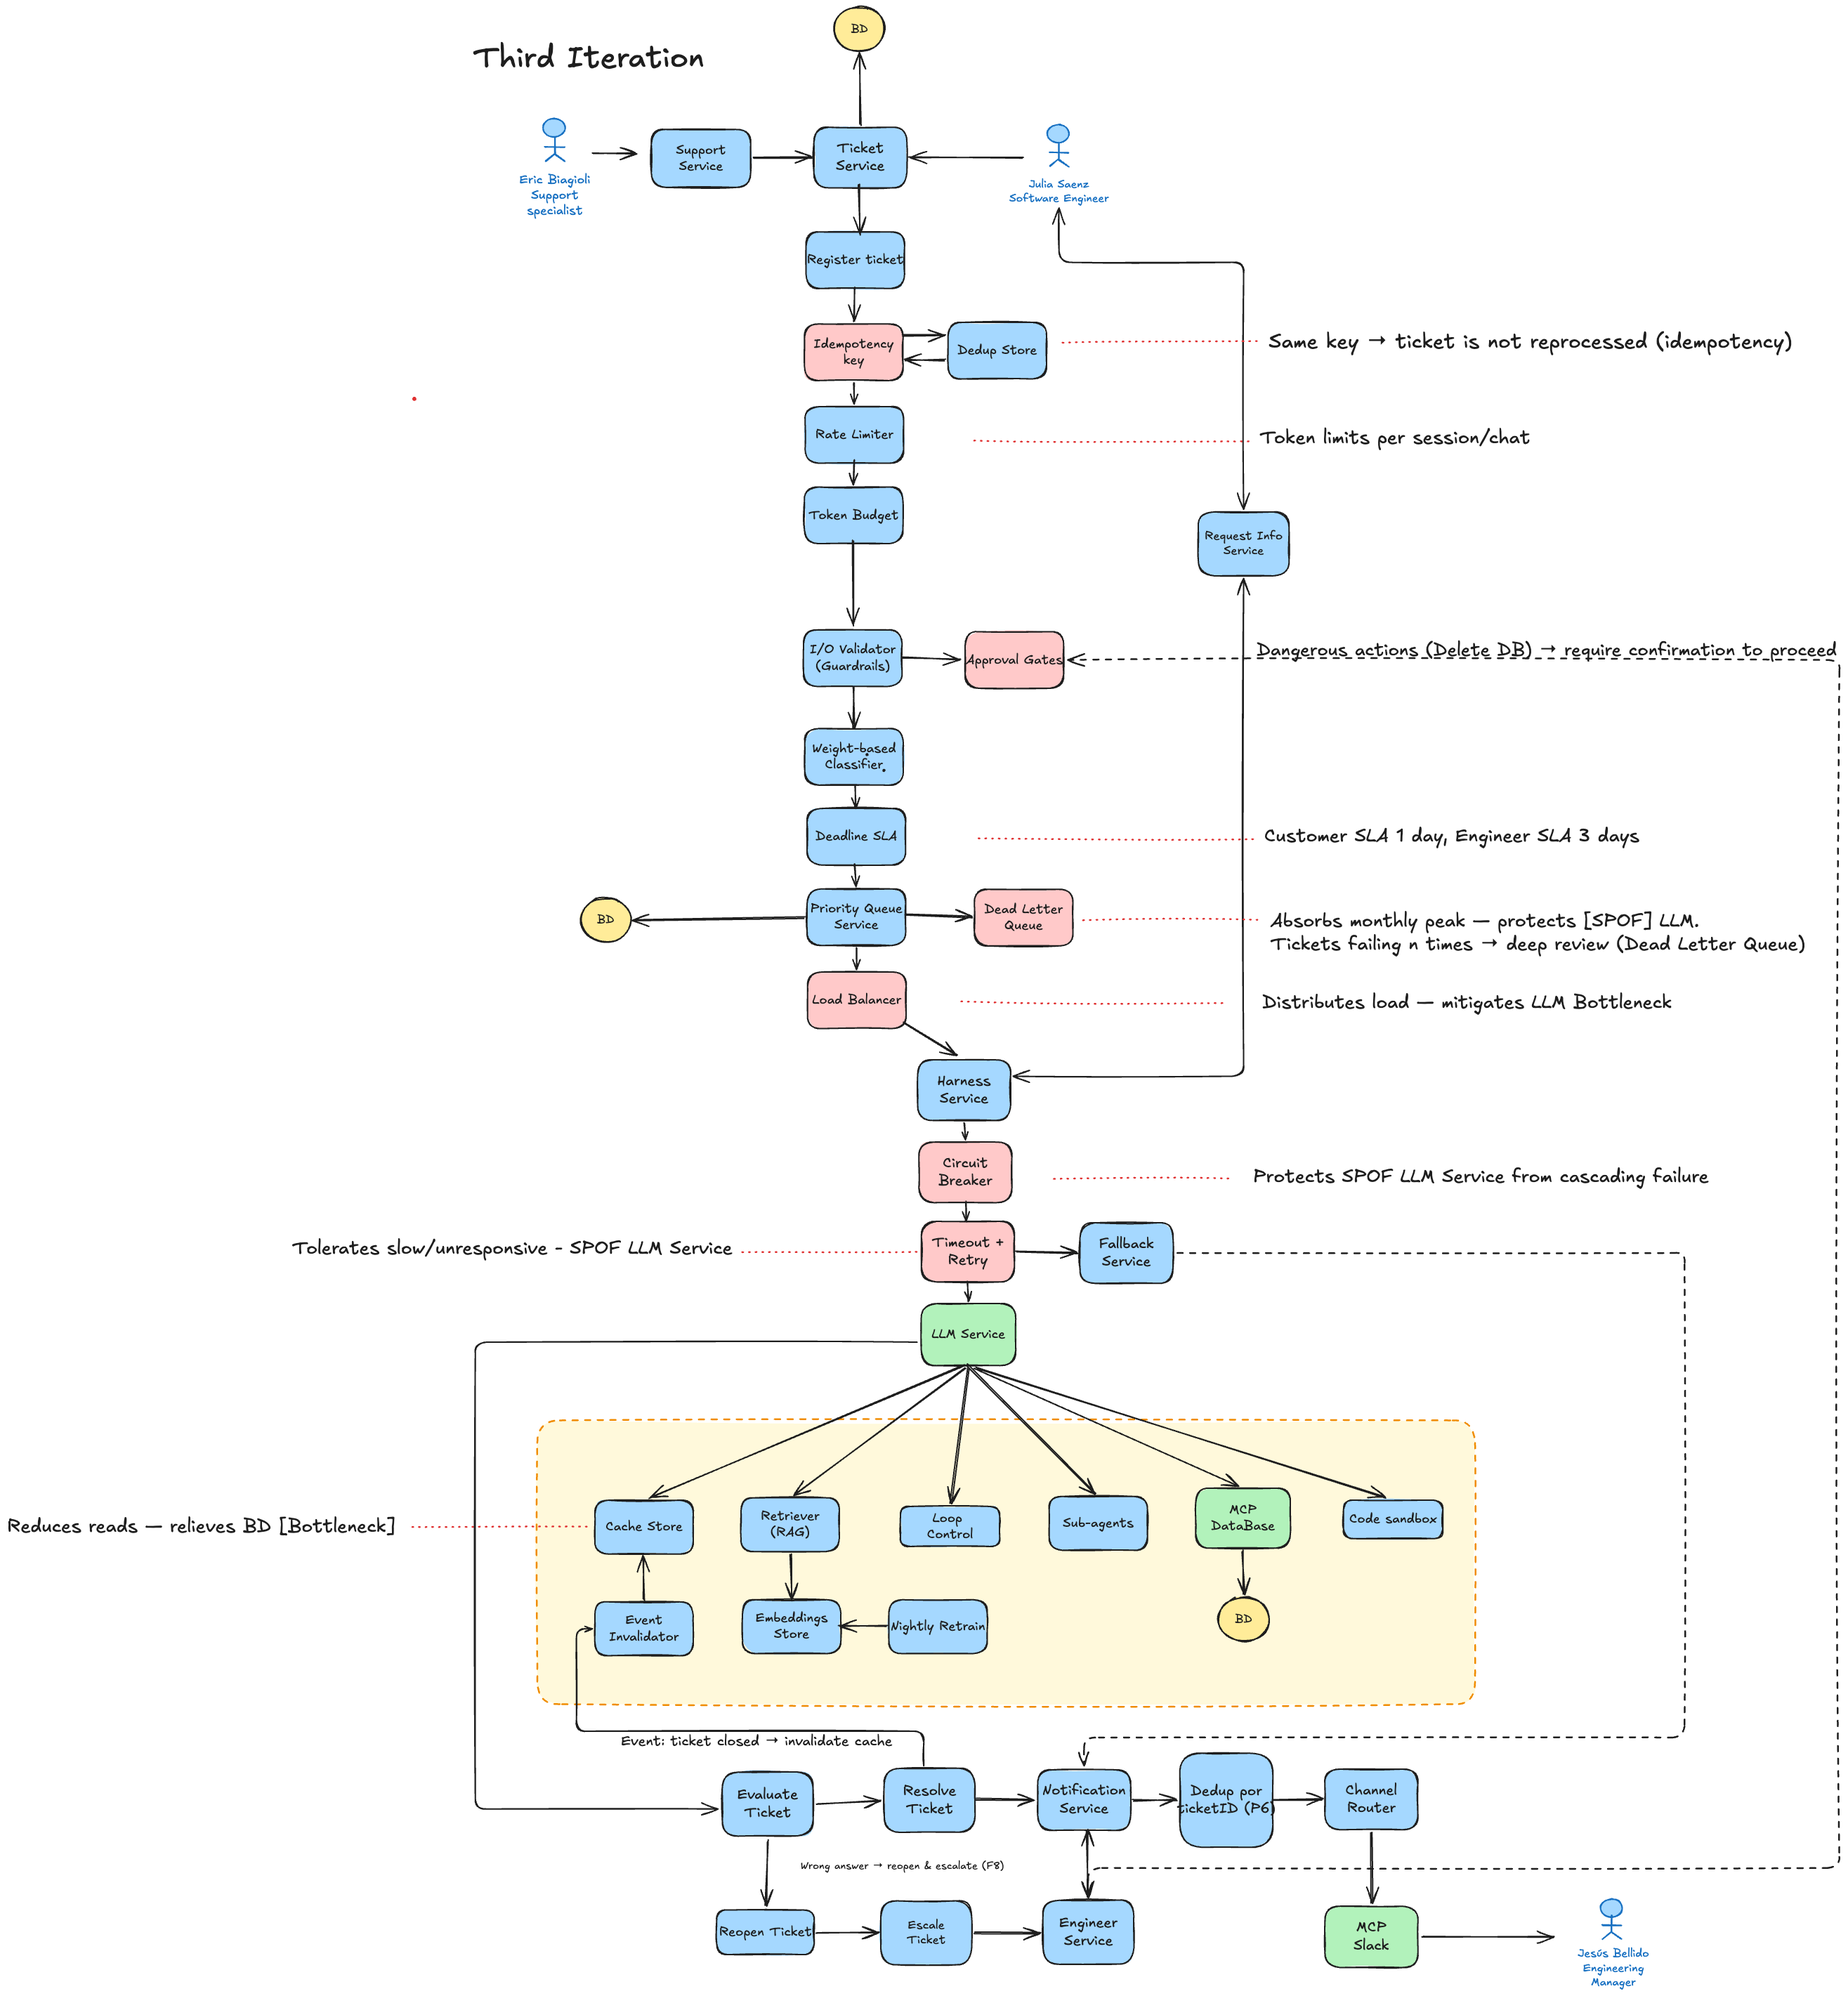
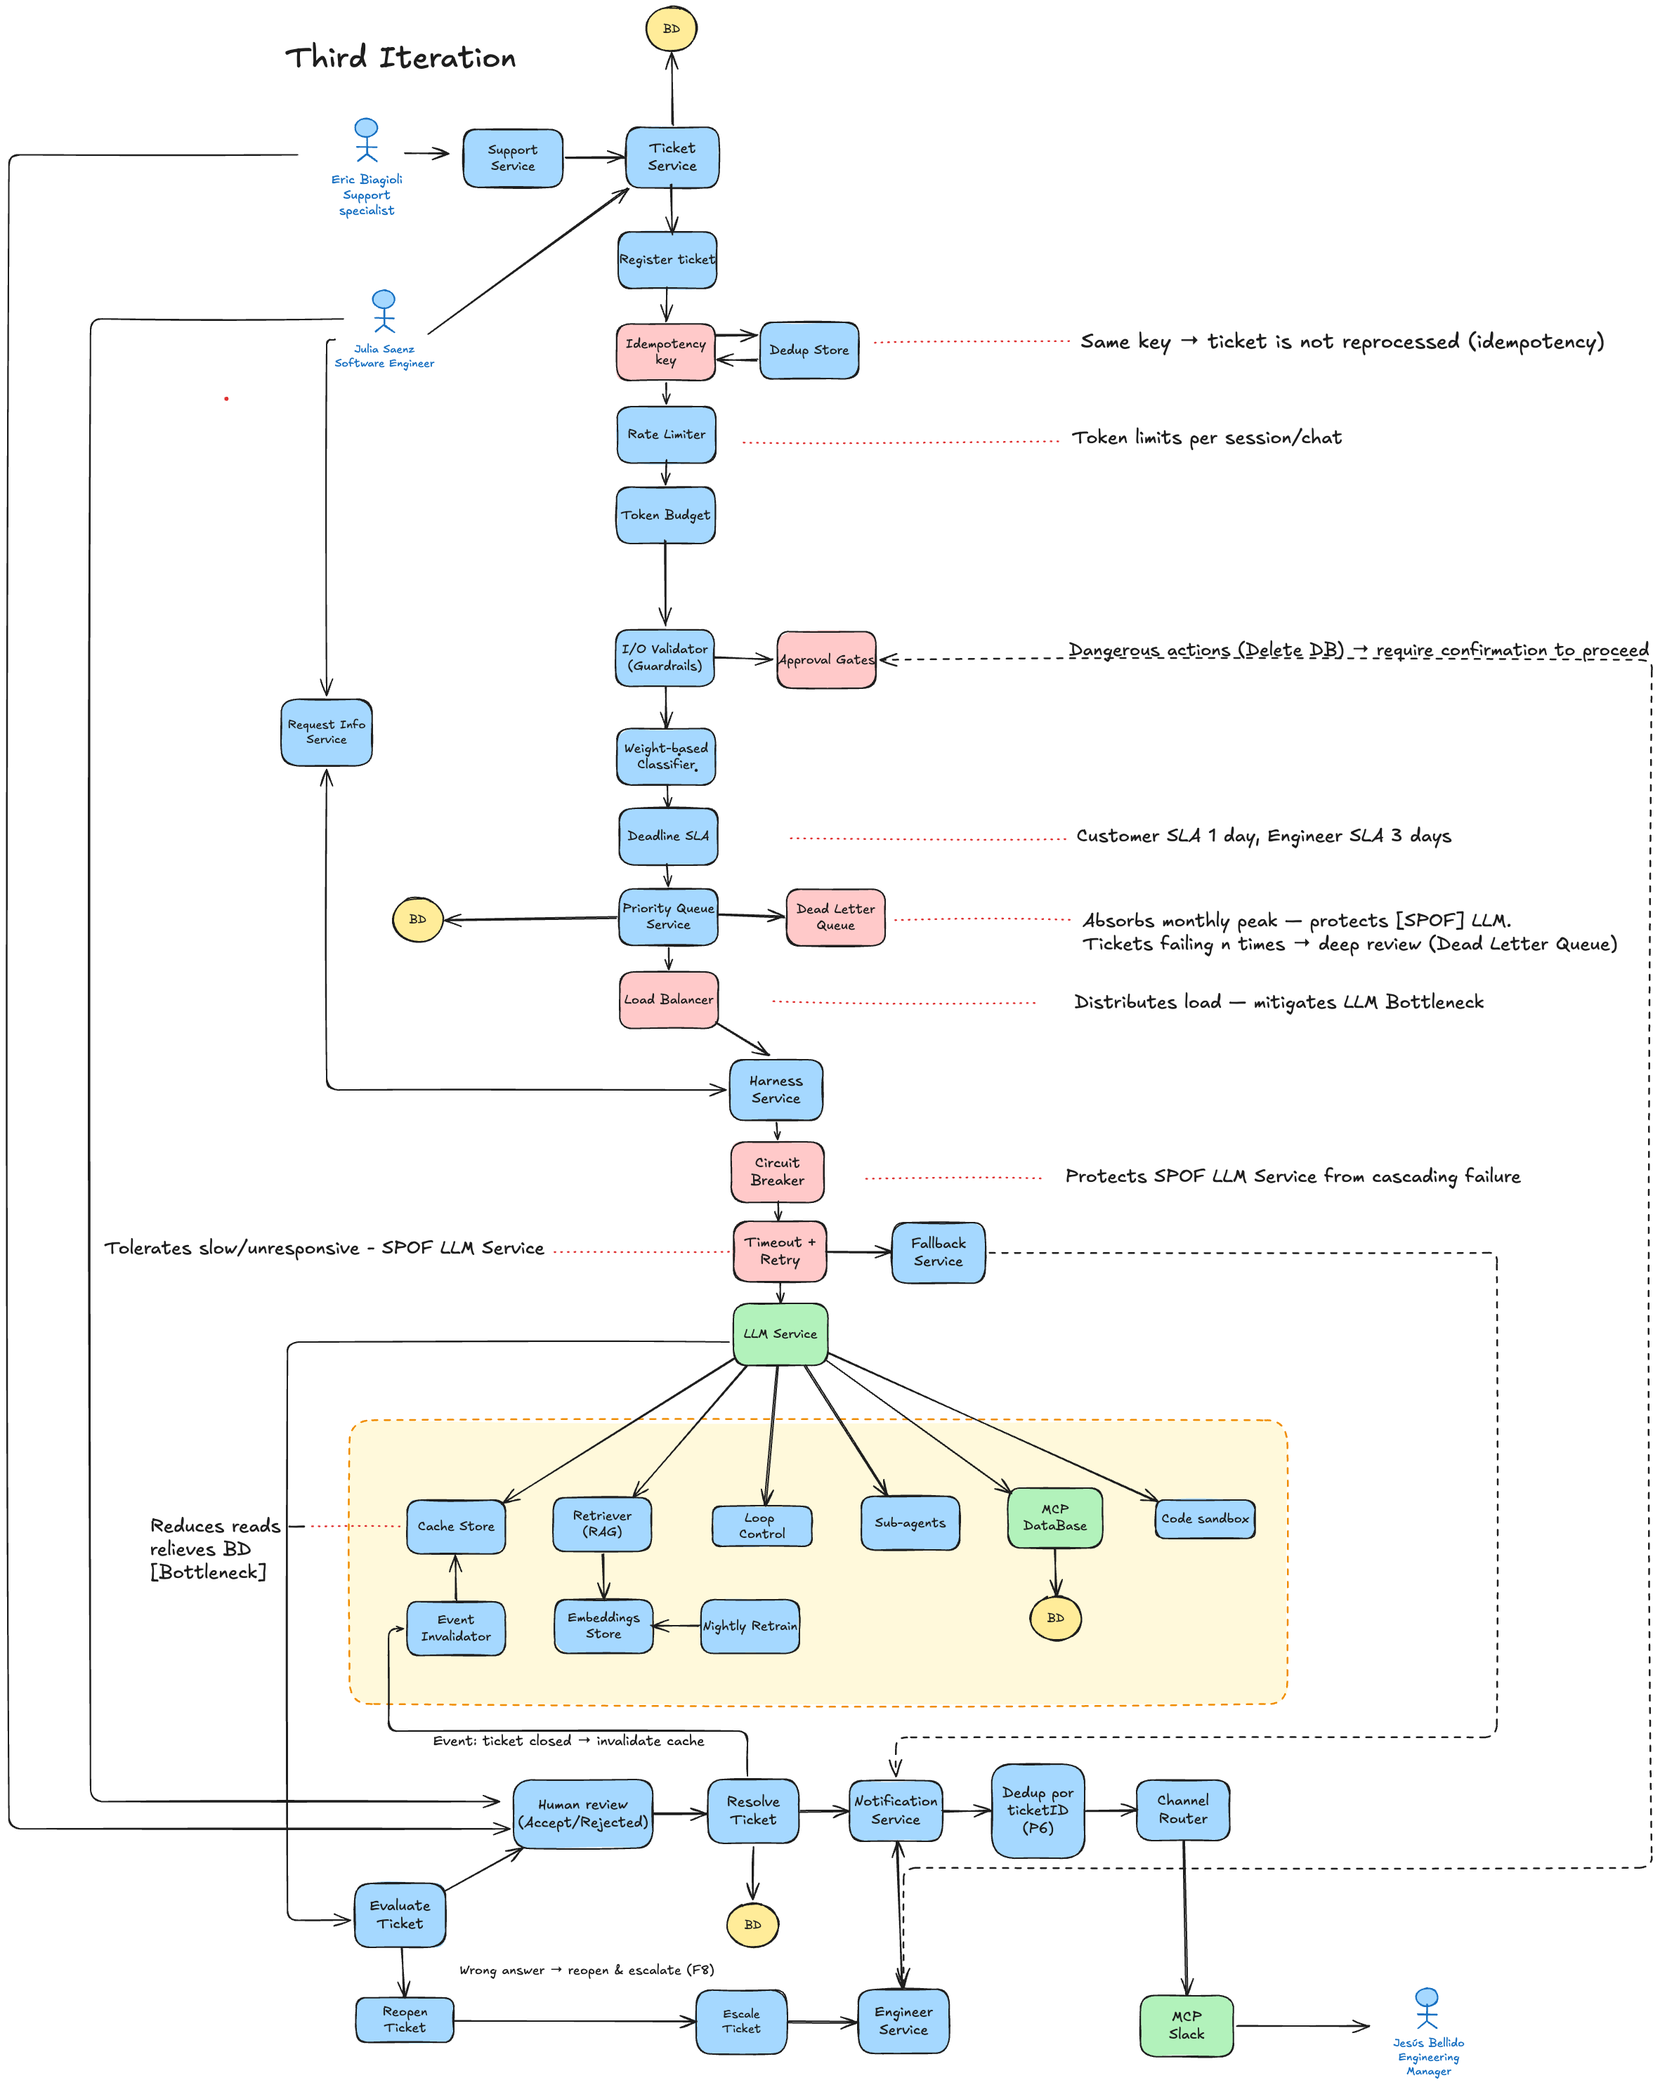
chore: send help

diff --git a/Laboratorio5/reports/minion-report-it02.md b/Laboratorio5/reports/minion-report-it02.md
@@ -1,0 +1,49 @@
+# RESULT: Judgment Completed
+
+🟡 **Ok but can be improved**
+
+**Nota final:** 6.2/10
+
+security-minion (weight: 3): (0/10) _ 3 = 0
+reliability-minion (weight: 3): (10/10) _ 3 = 3
+spec-minion (weight: 4): (8/10) \* 4 = 3.2
+
+## SECURITY - MINION - has judged you:
+
+RESULT: 0
+Login Present: 0/5
+User Creation Present: 0/5
+Feedback:
+
+- No se encontró componente de login/autenticación
+- No se encontró componente de creación de usuario/registro
+
+## RELIABILITY - MINION - has judged you:
+
+RESULT: 10
+Bottleneck Points: 4/4
+SPOF Points: 3/3
+Reliability Elements Used (CircuitBreaker, Cache) Points: 3/3
+Feedback:
+
+- El componente 'LLM Service' tiene la etiqueta 'Tolerates slow/unresponsive - SPOF LLM Service', identificándolo explícitamente como SPOF.
+- El componente 'Load Balancer' está etiquetado con 'Distributes load — mitigates LLM Bottleneck', identificando el cuello de botella del LLM Service.
+- El componente 'DB' está etiquetado con 'Reduces reads — relieves BB [Bottleneck]', identificando explícitamente la base de datos como cuello de botella.
+- El componente 'Priority Queue Service' tiene la etiqueta 'Absorbs monthly peak — protects [SPOF] LLM Tickets failing x times → deep review (Dead Letter Queue)', identificándolo como protegiendo un SPOF.
+- El componente 'Cache Store' está ubicado dentro de un bloque amarillo con la etiqueta 'Event Invalidator — invalidate cache' y está directamente conectado desde LLM Service, actuando como Cache para mitigar el cuello de botella de la base de datos.
+- El componente 'Circuit Breaker' está etiquetado con 'Protects SPOF LLM Service from cascading failure', protegiendo explícitamente al LLM Service (SPOF) de fallos en cascada.
+- El componente 'Dead Letter Queue' dentro del 'Priority Queue Service' actúa como mecanismo de confiabilidad protegiendo el SPOF identificado.
+
+## SPEC - MINION - has judged you:
+
+RESULT: 8
+People Present: 4/4
+Requirements Satisfied: 4/6
+Feedback:
+
+- Persona "Eric Biagioli - Support specialist": presente en el diagrama — Aparece como actor en el lado izquierdo del diagrama con el nombre 'Eric Biagioli Support Specialist' interactuando con el Support Service.
+- Persona "Jesus Bellido - Engineering manager": presente en el diagrama — Aparece en el diagrama como un nodo tipo actor identificado con el rol (icono BD en amarillo) recibiendo notificaciones vía Slack del Engineering Manager.
+- Persona "Julia Saenz - Software engineer": presente en el diagrama — Aparece como actor en el lado derecho del diagrama identificada como 'Julia Saenz Software Engineer' interactuando con el proceso de Engineer Service.
+- Requerimiento FR-01: camino completo (E2E) — Existe un camino completo para registrar un ticket de origen cliente. Comienza en Eric Biagioli (Support Specialist) → Support Service → Ticket Service → Register Ticket → Idempotency key (previene duplicados per FR-03) → Dedup Store → Rate Limiter → Token Budget → I/O Validator → Weight-based Classifier → Deadline SLA (Customer SLA 1 day, Engineer SLA 3 days). El flujo lleva a Priority Queue Service → Dead Letter Queue (para absorber picos) → Load Balancer → Harness Service. El camino es completo de inicio a fin.
+- Requerimiento FR-08: camino parcial — El requerimiento es que se registre la revisión humana y decisión sobre una propuesta. El diagrama muestra LLM Service conectado a Fallback Service y múltiples sub-servicios (Cache Store, Retriever (RAG), Loop Control, Sub-agents, Vector Database, Code Sandbox). Luego se ve Evaluate Ticket → Resolve Ticket → Verification Service. Sin embargo, no hay un flujo explícitamente dibujado que muestre cómo Eric Biagioli o Julia Saenz registran su decisión de aceptar/rechazar una propuesta LLM ni cómo esa acción se persiste. El camino se corta: después de que LLM Service produce una propuesta, no hay conexión clara de retorno a un componente donde la persona humana registre su revisión y decisión. El flujo parcial es LLM Service → (falta componente de human decision recording) → Resolve Ticket.
+- Requerimiento FR-12: camino parcial — Se requiere notificar al engineering manager de una escalación vía Slack. El diagrama muestra: Escalate Ticket → (camino continúa) pero en el lado derecho hay un nodo 'BD' (Jesus Bellido - engineering manager en amarillo) conectado mediante una línea desde Priority Queue Service hacia ACP Slack (aparentemente Slack notification). Sin embargo, el flujo de escalación no está completamente trazado: no hay una conexión explícita dibujada desde 'Escalate Ticket' pasando por los componentes intermedios hasta llegar a 'ACP Slack'. La conexión es parcial porque el diagrama no muestra claramente cómo la escalación se traduce en una notificación Slack al BD. El camino se corta entre Escalate Ticket y la notificación final a Slack.

diff --git a/Laboratorio5/reports/minion-report-it01.md b/Laboratorio5/reports/minion-report-it01.md
@@ -1,0 +1,45 @@
+# RESULT: Judgment Completed
+
+🔴 **Fix and try after you fixed**
+
+**Nota final:** 4.5/10
+
+security-minion (weight: 3): (0/10) _ 3 = 0
+reliability-minion (weight: 3): (3/10) _ 3 = 0.9
+spec-minion (weight: 4): (9/10) \* 4 = 3.6
+
+## SECURITY - MINION - has judged you:
+
+RESULT: 0
+Login Present: 0/5
+User Creation Present: 0/5
+Feedback:
+
+- No se encontró componente explícito de Login/Autenticación
+- No se encontró componente explícito de Registro/Creación de usuarios
+
+## RELIABILITY - MINION - has judged you:
+
+RESULT: 3
+Bottleneck Points: 0/4
+SPOF Points: 0/3
+Reliability Elements Used (CircuitBreaker, Cache) Points: 3/3
+Feedback:
+
+- No se identificó ningún elemento/servicio/componente etiquetado o identificado como cuello de botella.
+- No se identificó ningún elemento/servicio/componente etiquetado o identificado como SPOF.
+- Se identificaron elementos de reliability protegiendo componentes específicos: el nodo 'Circuit Breaker' protege directamente el flujo hacia 'Timeout Retry', y el nodo 'Load Balancer' proporciona distribución de carga hacia el 'Harness Service'. Adicionalmente, se observa 'LM Service' que integra múltiples servicios internos (Cache Store, Retriever RAD, Loop Control, Sub-agents, AOP-DataBase, Code sandbox) con un 'Event Invalidator' que gestiona invalidación de caché.
+
+## SPEC - MINION - has judged you:
+
+RESULT: 9
+People Present: 4/4
+Requirements Satisfied: 5/6
+Feedback:
+
+- Persona "Eric Biagioli - Support specialist": presente en el diagrama — Aparece explícitamente etiquetado en el diagrama como 'Eric Biagioli Support Specialist' en la esquina superior izquierda, conectado al componente 'Support Services'.
+- Persona "Jesus Bellido - Engineering manager": presente en el diagrama — Aparece explícitamente etiquetado en el diagrama como 'Jesus Bellido Engineering Manager' en la esquina inferior derecha, conectado al componente 'MCP Slack' que recibe notificaciones de escalaciones.
+- Persona "Julia Saenz - Software engineer": presente en el diagrama — Aparece explícitamente etiquetado en el diagrama como 'Julia Saenz Software Engineer' en la esquina superior derecha, conectada al componente 'Ticket Service' donde recibe tickets escalados.
+- Requerimiento FR-01: camino completo (E2E) — El flujo para registrar un ticket de origen cliente está completamente dibujado: Eric Biagioli (Support Specialist) → Support Services → Ticket Service → Register Ticket → (Idempotency Key → Backup Store) → Rate Limiter → Token Budget. El registro se completa con validación de duplicados e idempotencia antes de proseguir al análisis. Camino completo de entrada a salida.
+- Requerimiento FR-07: camino parcial — El flujo de propuesta LLM está parcialmente dibujado: se muestra LLM Service con múltiples subcomponentes (Cache Store, Retriever, Loop Control, Sub-agents, ACP DataStore, Code Sandbox) y conexiones internas. Sin embargo, no se observan conexiones explícitas FROM LLM Service HACIA el componente que captura o retorna las propuestas con fuentes y advertencias al soporte (Eric Biagioli) o a Julia. El diagrama muestra la arquitectura interna del LLM pero se corta antes de completar el ciclo de revisión y decisión humana descrito en FR-08.
+- Requerimiento FR-12: camino completo (E2E) — El flujo de notificación de escalación a través de Slack está completamente dibujado: desde Notification Service (disparado por Engineer Service tras escalación) → Deadpkg per (P6) → Channel Router → MCP Slack → Jesus Bellido (Engineering Manager). La escalación se notifica sin duplicados (el diagrama indica 'Mismo key entorces no se reproca el ticket') y llega directamente al manager a través del canal Slack como se requiere en FR-12 y FR-11.
